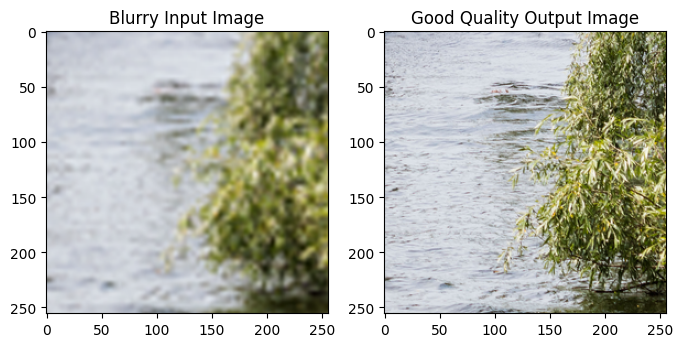
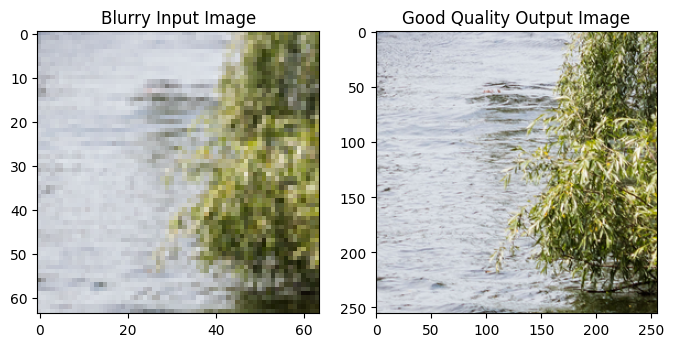
README updated

diff --git a/README.md b/README.md
@@ -34,12 +34,54 @@ The dataset can be downloaded as zip file from [Kaggle](https://www.kaggle.com/d
 
 #### Dataset details
 
-There are 19570 train image-pairs, 4193 validation image-pairs and 4195 test image-pairs in total. The size of the images is 256x256, both the low-resolution and high-resolution versions. Exploration of the dataset can be found in the `data_exploration.ipynb` notebook.
+There are 19570 train image-pairs, 4193 validation image-pairs and 4195 test image-pairs in total. The size of the LR images is 64x64, and 256*256 for HR images. Originally LR images were 256x256 (but more blurry), but we downscaled them to 64x64 using `cv2.INTER_CUBIC` to create a more challenging super-resolution task. The script used for downscaling can be found in `downsize_inputs.py`. The dataset with dowsized images can be found [here](https://drive.google.com/file/d/1lqBvhWfWsF_F2siT6PUEvgi3Eiboj5lC/view?usp=drive_link).
+
+Exploration of the dataset can be found in the `data_exploration.ipynb` notebook.
 
 ![input_10 / output_10](readme_assets/example10.png)
 
-##### Example inputs:
-![Low Resolution Input](readme_assets/input_images.png)
+### How to run project
 
-##### Example outputs:
-![High Resolution Output](readme_assets/output_images.png)
+There are 2 possibilities to run the projec.
+
+### Run project using Google Colab
+
+This way is recommended if you do not have a powerful GPU available locally. Both training and evaluation can be done in the following [colab notebook](https://colab.research.google.com/drive/1qBS-JGl1o3cseP8tEqf0Va77MEKkgHdg?usp=sharing).
+
+### Run project locally
+
+1. Clone the [repository](https://github.com/Antioksidan/DeepLearning) to your local machine. 
+
+```bash
+git clone https://github.com/Antioksidan/DeepLearning
+cd DeepLearning
+```
+
+2. Make sure you have Python 3.8+ installed. It is recommended to use a virtual environment. You can create and activate a virtual environment using the following commands:
+
+```bash
+python -m venv venv
+source venv/bin/activate  # On Windows use `venv\Scripts\activate`
+```
+
+3. Install the required dependencies using pip:
+
+```bash
+pip install -r requirements.txt
+```
+
+4. Dependencies of the projects are in the src folder:
+
+```
+src/
+    ├── __init__.py
+    ├── dataloader.py # data loading and preprocessing
+    ├── discriminator.py # discriminator model
+    ├── generator.py # generator model
+    ├── training_functions.py # training loops
+    └── vgg_wrapper.py # VGG feature extractor for perceptual loss
+```
+
+5. For training the models, you can run the `train_pipeline.ipynb` notebook. Make sure to adjust the paths to the dataset if necessary.
+
+6. For evaluating the trained models, you can run the `eval_pipeline.ipynb` notebook. Again, ensure that the paths to the dataset and model checkpoints are correctly set.
